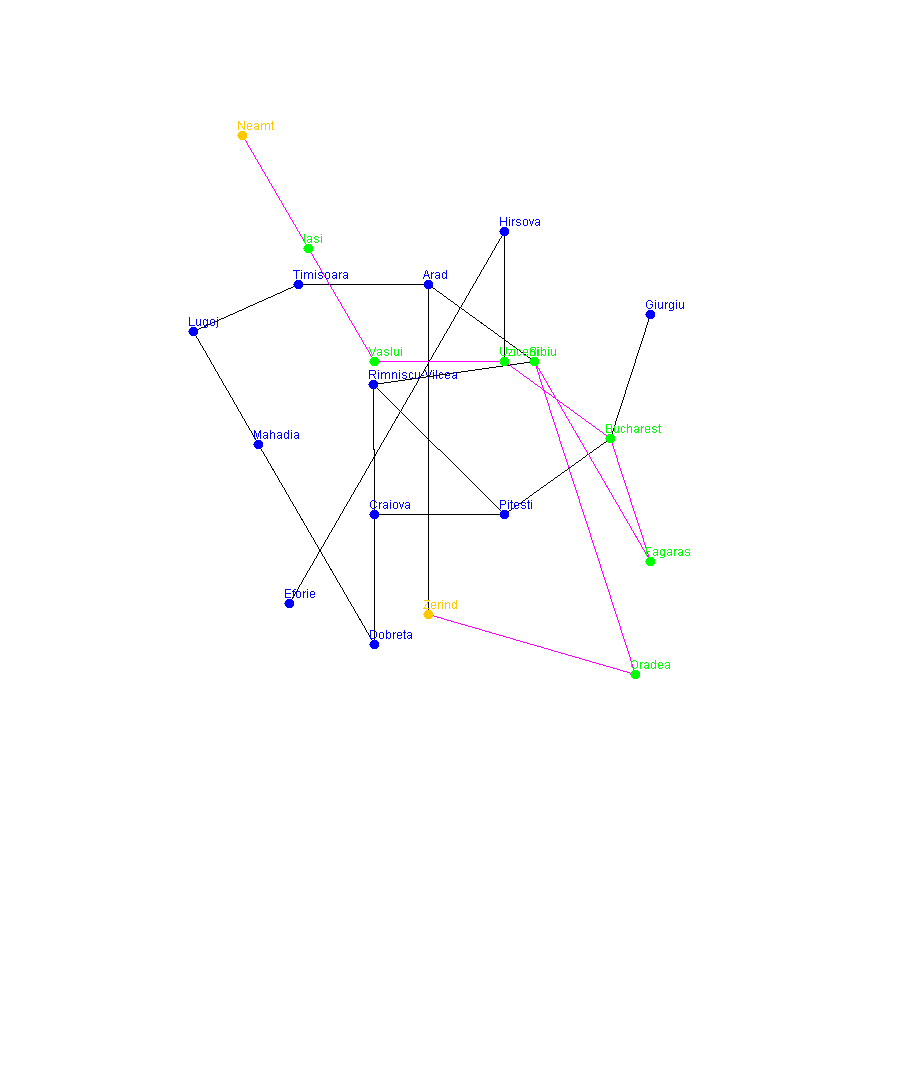
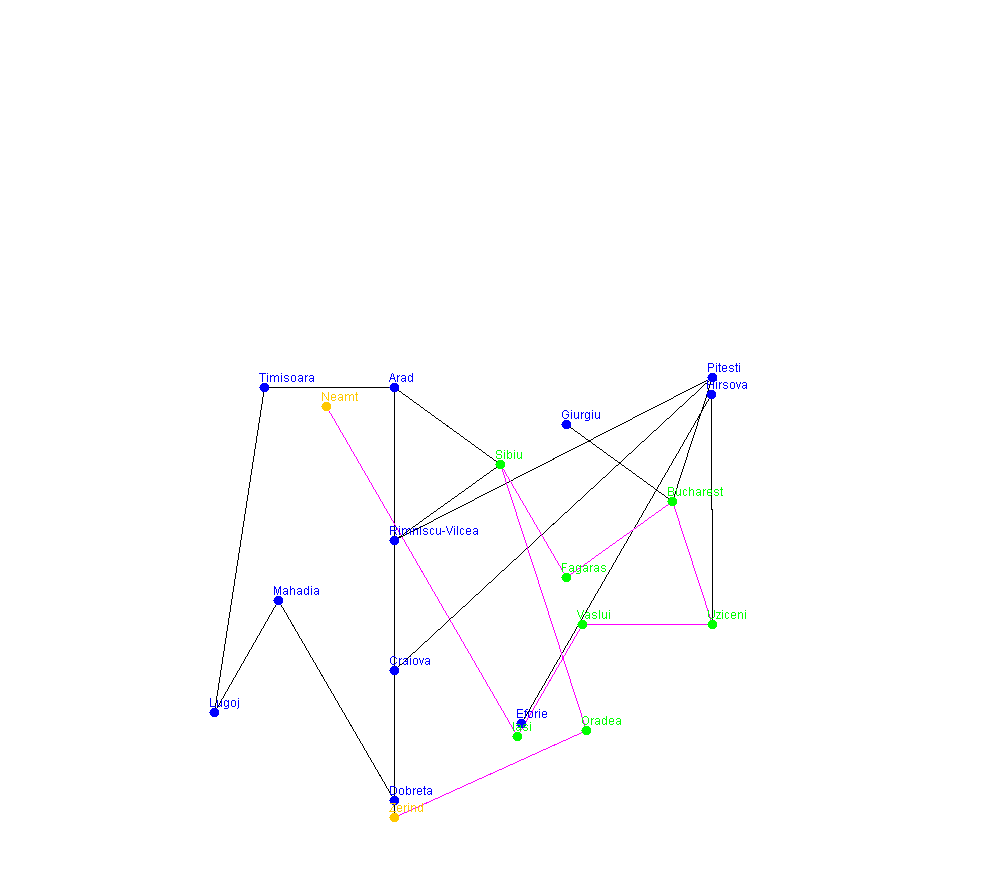
Moved the graphs inside a tabbed panel so that we can have many of them in the future.

diff --git a/src/visualGraph.java b/src/visualGraph.java
@@ -14,6 +14,7 @@ import java.util.Set;
 
 import javax.imageio.ImageIO;
 import javax.swing.JFrame;
+import javax.swing.JTabbedPane;
 import javax.swing.JTextPane;
 
 
@@ -72,8 +73,8 @@ public class visualGraph extends Component implements MouseListener, MouseMotion
 	
 	BufferedImage image;
 	JFrame frame;
-	JTextPane textPanel;
 	Panel controlPanel;
+	JTabbedPane tabbedPane;
 	
 	public visualGraph(){ 
 		addMouseListener(this);
@@ -81,11 +82,11 @@ public class visualGraph extends Component implements MouseListener, MouseMotion
 		
 	} 
 	
-	public void addReferences(JFrame frame, Panel controlPanel, JTextPane textPanel) {
+	public void addReferences(JFrame frame, Panel controlPanel, JTabbedPane tabbedPane) {
 		this.frame = frame;
 		this.controlPanel = controlPanel;
-		this.textPanel = textPanel;
-		this.setBackground(Color.white);
+		this.tabbedPane = tabbedPane;
+		
 		this.resizeComponents();
 	}
 	
@@ -95,16 +96,17 @@ public class visualGraph extends Component implements MouseListener, MouseMotion
 		getSe.setGraph(graph.graph);
 		getSe.setHeuristics(graph.heuristic);
 		getSe.setOptions(true, true);
-		
-		this.textPanel.setText(getSe.lookForPath(start, end));
+		getSe.lookForPath(start, end);
+		//this.textPanel.setText(getSe.lookForPath(start, end));
 	}
 	
 	public void resizeComponents() {
 		// Bit hardcoded 
 		this.frame.setSize(heightAndWidth+400, heightAndWidth+100);
-		this.setBounds(this.controlPanel.getWidth(), 0, heightAndWidth+this.controlPanel.getWidth(), heightAndWidth);
-		this.textPanel.setBounds(this.getWidth()+10, 0,
-				this.textPanel.getWidth(), this.textPanel.getHeight());
+		this.tabbedPane.setBounds(this.controlPanel.getWidth(), 0, heightAndWidth+this.controlPanel.getWidth(), heightAndWidth);
+		this.setSize(this.tabbedPane.getWidth(), this.tabbedPane.getHeight());
+		heightAndWidth = this.tabbedPane.getWidth() > this.tabbedPane.getHeight() ? this.tabbedPane.getWidth() : this.tabbedPane.getHeight(); 
+		
 	}
 	
 	public void readGraph(String File){
@@ -124,7 +126,6 @@ public class visualGraph extends Component implements MouseListener, MouseMotion
 		visualEdges.clear();
 		
 		heightAndWidth = 800;
-		
 		
 		for (String name: graph.graph.keySet()){
 			currentNode = new visualNode();
@@ -156,10 +157,6 @@ public class visualGraph extends Component implements MouseListener, MouseMotion
 	        	}
 	        }
 		}
-		
-		 
-		
-		
 		
 		while (!openQueue.isEmpty()) {
 			currentNode = openQueue.poll();
@@ -222,7 +219,7 @@ public class visualGraph extends Component implements MouseListener, MouseMotion
 		
 		imageHeight = 2 * (int)(maxX-minX);
 		imageWidth = 2 * (int)(maxY-minY) ;
-		System.out.println("H"+imageHeight+"W"+imageWidth);
+		//System.out.println("H"+imageHeight+"W"+imageWidth);
 		polX += Math.abs((minX+(maxX-minX)/2)-(heightAndWidth/2));
 		polY += Math.abs((minY+(maxY-minY)/2)-(heightAndWidth/2));
 
@@ -238,6 +235,7 @@ public class visualGraph extends Component implements MouseListener, MouseMotion
 	}
 	
 	public void softRepaint() {
+		System.out.println("SOFT");
 		image = new BufferedImage(imageHeight, imageWidth, BufferedImage.TYPE_INT_ARGB);
 		Graphics g = image.getGraphics();
 		setSize(imageHeight, imageWidth);
@@ -262,8 +260,8 @@ public class visualGraph extends Component implements MouseListener, MouseMotion
 			g.drawImage(image, (int)(newPosX+draggedOffsetX), (int)(newPosY+draggedOffsetY), imageHeight, imageWidth, null);
 			return;
 		}
-
 		
+		System.out.println("CALLED");
 		g.fillRect(0, 0, imageHeight, imageWidth);
 		for (visualEdge e: visualEdges){
 			g.setColor(Color.black);
@@ -289,18 +287,14 @@ public class visualGraph extends Component implements MouseListener, MouseMotion
 
 	@Override
 	public void mouseDragged(MouseEvent arg0) {
-		// TODO Auto-generated method stub
 		Point point = arg0.getPoint();
-		
 		draggedOffsetX = point.x - clickedX;
 		draggedOffsetY = point.y - clickedY;
-		
 		repaint();
 	}
 	
 	@Override
 	public void mousePressed(MouseEvent arg0) {
-		// TODO Auto-generated method stub
 		Point point = arg0.getPoint();
 		clickedX = point.x;
 		clickedY = point.y;
@@ -309,13 +303,11 @@ public class visualGraph extends Component implements MouseListener, MouseMotion
 
 	@Override
 	public void mouseReleased(MouseEvent arg0) {
-		// TODO Auto-generated method stub
 		Point point = arg0.getPoint();
 		draggedOffsetX = 0;
 		draggedOffsetY = 0;
 		newPosX += (point.x - clickedX);
 		newPosY += (point.y - clickedY);
-		
 	    repaint();
 	} 
 

diff --git a/src/Flamel.java b/src/Flamel.java
@@ -15,13 +15,15 @@ import javax.swing.JTextPane;
 import javax.swing.JTextField;
 import java.awt.Color;
 import javax.swing.JMenu;
+import javax.swing.JTabbedPane;
+import javax.swing.JSplitPane;
 
 public class Flamel {
 
 	private JFrame frame;
 	private JTextField textField;
 
-	/**
+	/*
 	 * Launch the application.
 	 */
 	public static void main(String[] args) {
@@ -37,14 +39,14 @@ public class Flamel {
 		});
 	}
 
-	/**
+	/*
 	 * Create the application.
 	 */
 	public Flamel() {
 		initialize();
 	}
 
-	/**
+	/*
 	 * Initialize the contents of the frame.
 	 */
 	private void initialize() {
@@ -103,17 +105,17 @@ public class Flamel {
 		btnCreatePath.setBackground(Color.GREEN);
 		controlPanel.add(btnCreatePath);
 		
-		visualGraph canvasPanel = new visualGraph();
-		canvasPanel.setBounds(0, 0, 1, 1);
-		frame.getContentPane().add(canvasPanel);
+		JTabbedPane tabbedPane = new JTabbedPane(JTabbedPane.TOP);
+		tabbedPane.setBounds(156, 0, 224, 629);
+		frame.getContentPane().add(tabbedPane);
 		
+		visualGraph canvasPanel = new visualGraph();
+		tabbedPane.addTab("Graph", null, canvasPanel, null);
+		
+		canvasPanel.addReferences(frame, controlPanel, tabbedPane);
 		
 		JTextPane textPane = new JTextPane();
-		textPane.setBounds(763, 0, 211, 454);
-		textPane.setEditable(false);
-		frame.getContentPane().add(textPane);
-		
-		canvasPanel.addReferences(frame, controlPanel, textPane);
+		tabbedPane.addTab("Command window", null, textPane, null);
 		
 		JFileChooser fileDialog = new JFileChooser("graphs/");
 		graphreader.addActionListener(new ActionListener() {
@@ -138,6 +140,7 @@ public class Flamel {
 	    	@Override
 	    	public void actionPerformed(ActionEvent e) {
 	    		canvasPanel.doSearch(startPoint.getSelectedItem().toString(), endPoint.getSelectedItem().toString());
+	    		System.out.println("COLORED");
 	    		canvasPanel.softRepaint();
 	    	}
 	    });

diff --git a/src/pathfinding.java b/src/pathfinding.java
@@ -15,6 +15,9 @@ public abstract class pathFinding {
 	}
 	
 	public String lookForPath(String start, String end){
+		/*
+		 * Clears the path and then calls work()
+		 */
 		this.path.clear();
 		this.start = start;
 		this.end = end;
@@ -25,7 +28,7 @@ public abstract class pathFinding {
 		for (String label : graph.keySet()) {
 			graph.get(label).nodeColor = Color.blue;
 		}
-    	double cost = 0.0;
+    	double cost = 0.00;
     	String pathResult = "";
     	currentNode.nodeColor = Color.orange;
     	pathResult = "->"+currentNode.label;

diff --git a/src/Astar.java b/src/Astar.java
@@ -21,7 +21,7 @@ public class Astar extends pathFinding{
 		this.useCost = useCost;
 	}
 	
-	@Override
+	@Override // wow override
 	public String work(){
 		Queue<Node> openQueue = new PriorityQueue<Node>(11, new NodeComparator()); 
 		Set<Node> closedList = new HashSet<Node>();

diff --git a/src/breadthFirstSearch.java b/src/breadthFirstSearch.java
@@ -5,6 +5,7 @@ import java.util.Set;
 
 public class breadthFirstSearch extends pathFinding{
 	
+	// work work work work work
 	public String work() {
 
 		Set<Node> closedList = new HashSet<Node>();

diff --git a/README.md b/README.md
@@ -1,8 +1,9 @@
 ## Flamel
 
-Flamel is a program which compares different path-finding algorithms.
+Flamel is a program which visualizes and compares different path-finding algorithms.
 
-### Adding features like :
-- Graphical User Interface.
-- Clean code. ( I am trying )
-
+### Todos :
+- Usable graphical environment
+- Make configurable options
+- Add comments to the code
+- Optimize if possible
